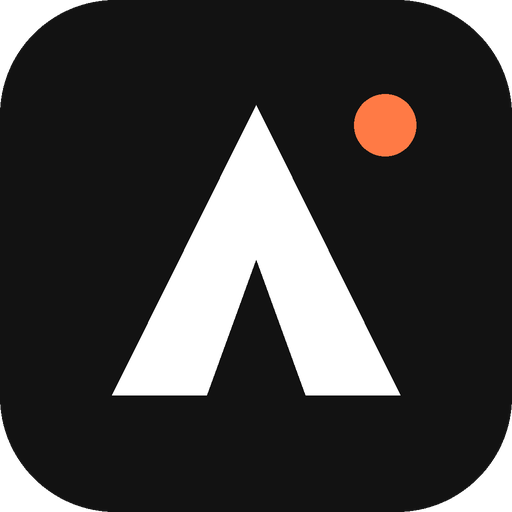
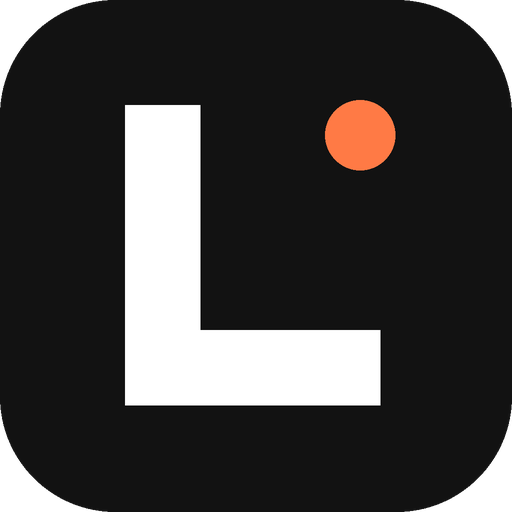
Lumina v2.0.0
- 改名為 Lumina（取自 illuminate：照亮方向，啟迪智慧），換上新圖示；桌面捷徑會自動換成新名稱
- 專案新增「對話模式」與「工作模式」：工作模式綁定資料夾後，AI 可以修改檔案、執行指令（每次跳出授權卡），每輪都有檢查點可以復原
- 更新改成只下載有變動的檔案，更新更快

Changed region(s): [[0.2188, 0.1875, 0.7812, 0.8125], [0.625, 0.1875, 0.8125, 0.3438]]

diff --git a/static/index.html b/static/index.html
@@ -3,7 +3,7 @@
 <head>
 <meta charset="utf-8">
 <meta name="viewport" content="width=device-width, initial-scale=1">
-<title>Antigravity 介面</title>
+<title>Lumina</title>
 <link rel="icon" type="image/png" href="/icon.png">
 <link rel="stylesheet" href="https://cdn.jsdelivr.net/npm/katex@0.16.11/dist/katex.min.css">
 <script src="https://cdn.jsdelivr.net/npm/katex@0.16.11/dist/katex.min.js"></script>
@@ -233,6 +233,8 @@ dialog.big[open]{display:flex;flex-direction:column;width:min(920px,94vw);height
 .msg.user .mtime{text-align:right}
 .convtime{text-align:center;font-size:12px;color:var(--muted);margin:6px 0 14px}
 body.notimes .mtime,body.notimes .convtime{display:none}
+.pmode label{display:block;font-size:13.5px;margin:4px 0}
+.pmode input[type=text]{width:100%;margin-top:4px}
 .cpbox{font-size:12.5px;color:var(--muted);margin:6px 0}
 .cpbox summary{cursor:pointer;display:flex;align-items:center;gap:8px}
 .cpbox .cprestore{font-size:12px;padding:2px 8px}
@@ -341,7 +343,7 @@ body.resizing{cursor:col-resize;user-select:none}
 <body>
 <div id="bgLayer" aria-hidden="true"></div>
 <aside id="side">
-  <div id="brand"><img src="/icon.png" alt=""><b>Antigravity UI</b><button class="vbadge" id="verBadge" title="檢查更新"></button><button id="collapseSide" title="收起側欄">«</button></div>
+  <div id="brand"><img src="/icon.png" alt=""><b>Lumina</b><button class="vbadge" id="verBadge" title="檢查更新"></button><button id="collapseSide" title="收起側欄">«</button></div>
   <div class="top"><button id="newBtn">＋ 新對話</button></div>
   <div class="sect"><span>專案</span><button id="newProj" title="新增專案">＋</button></div>
   <div id="projs"></div>
@@ -391,6 +393,13 @@ body.resizing{cursor:col-resize;user-select:none}
   <input type="text" id="pname">
   <label class="f">專案指示（這個專案的新對話會自動附上，例如「這些是我們實驗室 transmon 相關論文」）</label>
   <textarea id="pinstr"></textarea>
+  <label class="f">模式</label>
+  <div class="pmode">
+    <label><input type="radio" name="pmode" value="chat"> 💬 對話模式：讀檔、讀 PDF、產生 PDF 與檔案（只寫到 output）；不能執行指令</label>
+    <label><input type="radio" name="pmode" value="work"> 🛠 工作模式：AI 可以修改下面這個資料夾、執行指令（每次跳出授權卡），每輪都有檢查點可以復原</label>
+    <input type="text" id="pworkdir" placeholder="工作資料夾的完整路徑，可以在檔案總管的網址列複製">
+    <p class="note">建議寫程式、整理檔案時才用工作模式；大改動建議換成 Claude Opus（Gemini 寫程式較弱）。</p>
+  </div>
   <label class="f">🧠 專案記憶（這個專案每個新對話開頭都會帶上）</label>
   <textarea id="pmem" hidden></textarea>
   <div id="pmemPreview" class="mempv" title="點一下展開查看／編輯"></div>
@@ -472,10 +481,10 @@ body.resizing{cursor:col-resize;user-select:none}
       <div class="srow"><b>顯示訊息時間與對話建立時間</b><span class="sp"></span><label class="tg"><input type="checkbox" data-key="show_times"><i></i></label></div>
       <div class="srow"><b>點公式複製 LaTeX 原始碼</b><span class="sp"></span><label class="tg"><input type="checkbox" data-key="latex_copy"><i></i></label></div>
       <p class="note">點一下回答裡的公式，就會複製它的 LaTeX（例如 <code>$\langle x|\psi\rangle$</code>），可以直接貼到 Overleaf 或 Word。</p>
-      <div class="srow"><b>允許模型執行指令（每次詢問）</b><span class="sp"></span><label class="tg"><input type="checkbox" data-key="allow_commands" id="allowCmd"><i></i></label></div>
-      <p class="note">開啟後，模型想執行指令（例如用 python 讀 PDF、計算數值）時會跳出授權卡，你看過指令再決定：允許一次、這段對話都允許、永遠允許（只限 dir、git status 這類唯讀指令）或拒絕。
-        刪除資料夾、改系統設定、碰密碼與金鑰、修改 agy 或這個介面的設定等操作會直接擋下。
-        <b>注意：允許 python、powershell 等於讓模型在你的電腦上做任何事</b>，Windows 沒有沙盒可以隔離，請看過內容再允許。關閉時模型不能執行任何指令。</p>
+      <div class="srow"><b>執行指令與工作模式</b></div>
+      <p class="note">一般對話和專案預設是「💬 對話模式」：AI 只能讀檔、用內建工具讀 PDF、把檔案寫到 output，不能執行指令。
+        要讓 AI 改程式、執行指令，請在專案設定切換成「🛠 工作模式」並綁定資料夾：執行指令前會跳出授權卡，每輪都有檢查點可以復原。
+        刪除資料夾、改系統設定、碰密碼與金鑰等操作一律擋下。<b>注意：允許 python、powershell 等於讓 AI 在你的電腦上做任何事</b>，請看過內容再允許。</p>
       <div id="permBox"></div>
       <div class="srow"><b>產生 PDF 後讓模型檢查成品</b><span class="sp"></span><label class="tg"><input type="checkbox" data-key="pdf_verify"><i></i></label></div>
       <p class="note">PDF 編譯好後，把每一頁轉成圖片讓模型「看成品」：檢查頁數是否符合要求、版面有沒有跑掉、公式（例如括號位置）與內容有沒有錯，有問題就自動修正再重新產生。模型只看原始碼時常看不出這些問題。會多花一點時間與額度。</p>
@@ -510,7 +519,7 @@ body.resizing{cursor:col-resize;user-select:none}
       <div class="srow"><b>開啟時檢查新版本</b><span class="sp"></span><label class="tg"><input type="checkbox" data-key="update_check"><i></i></label></div>
       <div class="srow"><button id="sCheckUpd">立即檢查</button><span class="meta" id="sUpdText"></span></div>
       <div class="srow"><button id="sShortcut">建立桌面捷徑</button><span class="meta" id="sShortcutText"></span></div>
-      <div class="srow"><b id="sVersion">Antigravity UI</b><span class="sp"></span>
+      <div class="srow"><b id="sVersion">Lumina</b><span class="sp"></span>
         <button id="sReadme">說明文件</button><button id="sGithub">GitHub</button></div>
     </section>
   </div>
@@ -521,7 +530,7 @@ body.resizing{cursor:col-resize;user-select:none}
 </dialog>
 <dialog id="scdlg">
   <h3 style="margin-top:0">建立桌面捷徑</h3>
-  <p>要在桌面建立「Antigravity UI」的捷徑嗎？之後雙擊捷徑就能開啟介面，更新後也會沿用同一個捷徑。</p>
+  <p>要在桌面建立「Lumina」的捷徑嗎？之後雙擊捷徑就能開啟介面，更新後也會沿用同一個捷徑。</p>
   <div class="r"><button id="scNo">不用</button><button id="scYes">建立</button></div>
 </dialog>
 <dialog id="updlg">
@@ -1108,7 +1117,7 @@ async function loadProjects(){
 function paintProjectChip(){
   const p = curProject(), chip = $("#projChip");
   chip.style.display = p ? "inline-block" : "none";
-  if (p) chip.textContent = `📁 ${p.name} · ${p.file_count} 份檔案`;
+  if (p) chip.textContent = `${p.mode === "work" ? "🛠" : "📁"} ${p.name} · ${p.file_count} 份檔案${p.mode === "work" ? " · 工作模式" : ""}`;
   $("#histLabel").textContent = p ? `「${p.name}」的對話` : "一般對話";
 }
 function switchProject(id, keepConv){
@@ -1129,6 +1138,9 @@ async function openProjectDialog(){
   const p = curProject(); if (!p) return;
   const full = await (await fetch("/api/projects/" + p.id)).json();
   $("#pname").value = full.name; $("#pinstr").value = full.instructions || "";
+  const mode = full.mode === "work" ? "work" : "chat";
+  document.querySelector(`input[name=pmode][value=${mode}]`).checked = true;
+  $("#pworkdir").value = full.work_dir || ""; $("#pworkdir").disabled = mode !== "work";
   paintMemory(full);
   paintProjectFiles(full.files);
   if (!$("#pdlg").open) $("#pdlg").showModal();
@@ -1168,9 +1180,14 @@ const pf = $("#pfiles");
 pf.addEventListener("dragleave", () => pf.classList.remove("drag"));
 pf.addEventListener("drop", e => { e.preventDefault(); e.stopPropagation(); pf.classList.remove("drag"); if (e.dataTransfer?.files?.length) uploadProjectFiles(e.dataTransfer.files); });
 $("#pClose").onclick = () => $("#pdlg").close();
+document.querySelectorAll("input[name=pmode]").forEach(r => r.onchange = () => {
+  $("#pworkdir").disabled = r.value !== "work" || !r.checked; if (r.value === "work" && r.checked) $("#pworkdir").focus();
+});
 $("#pSave").onclick = async () => {
+  const mode = document.querySelector("input[name=pmode]:checked")?.value || "chat";
   const r = await post("/api/project/update", {id:project, name:$("#pname").value, instructions:$("#pinstr").value,
-                                               memory:$("#pmem").value, memory_auto:$("#pmemAuto").checked});
+                                               memory:$("#pmem").value, memory_auto:$("#pmemAuto").checked,
+                                               mode, work_dir:$("#pworkdir").value.trim().replace(/^"|"$/g, "")});
   if (r.ok === false){ alert(r.message); return; }
   $("#pdlg").close(); loadProjects();
 };
@@ -1238,7 +1255,7 @@ async function checkVersionOnly(){       // 關閉「開啟時檢查新版本」
   try {
     const v = await (await fetch("/api/version")).json();
     $("#verText").textContent = $("#verBadge").textContent = "v" + v.version;
-    document.title = `Antigravity 介面 v${v.version}`;
+    document.title = `Lumina v${v.version}`;
   } catch {}
 }
 async function checkUpdate(force){
@@ -1246,7 +1263,7 @@ async function checkUpdate(force){
     const v = await (await fetch("/api/version")).json();
     $("#verText").textContent = "v" + v.version;
     $("#verBadge").textContent = "v" + v.version;
-    document.title = `Antigravity 介面 v${v.version}`;
+    document.title = `Lumina v${v.version}`;
     updInfo = await (await fetch("/api/update/check" + (force ? "?force=1" : ""))).json();
   } catch { return; }
   const b = $("#updBtn");
@@ -1257,7 +1274,7 @@ async function checkUpdate(force){
   $("#verBadge").textContent = updInfo.available ? `v${updInfo.current} → v${updInfo.latest}` : `v${updInfo.current}`;
   $("#verBadge").title = updInfo.available ? "有新版本，點這裡更新" : "檢查更新";
   $("#sUpdText").textContent = updInfo.available ? `有新版本 v${updInfo.latest}` : updInfo.error ? "連不上 GitHub，請確認網路後再試" : `目前已經是最新版（v${updInfo.current}）`;
-  $("#sVersion").textContent = `Antigravity UI v${updInfo.current}`;
+  $("#sVersion").textContent = `Lumina v${updInfo.current}`;
   if (force){
     if (updInfo.available) openUpdateDialog();
     else toast(updInfo.error ? "連不上 GitHub，請確認網路後再試" : `已經是最新版（v${updInfo.current}）`);
@@ -1359,6 +1376,7 @@ function emptyState(){
 }
 /* ---------- 一般對話首頁：問候、最近的對話、小技巧（打開 AI 都有目的，不放快速開始卡片） ---------- */
 const HOME_TIPS = [
+  "你知道嗎？Lumina 來自於 illuminate，意旨為「照亮方向，啟迪智慧」",
   "直接 <kbd>Ctrl</kbd>+<kbd>V</kbd> 就能貼上截圖",
   "把多份 PDF 放進「專案」，模型會自己挑需要的讀",
   "滑鼠移到自己的訊息上可以「✎ 編輯」重新送出",
@@ -1860,8 +1878,8 @@ $("#importFile").onchange = async e => {
   loadProjects(); loadHistory();
 };
 $("#sCheckUpd").onclick = () => checkUpdate(true);
-$("#sReadme").onclick = () => window.open("https://github.com/NaizOuO/Antigravity-UI#readme", "_blank");
-$("#sGithub").onclick = () => window.open("https://github.com/NaizOuO/Antigravity-UI", "_blank");
+$("#sReadme").onclick = () => window.open("https://github.com/NaizOuO/Lumina#readme", "_blank");
+$("#sGithub").onclick = () => window.open("https://github.com/NaizOuO/Lumina", "_blank");
 
 /* 回答完成提醒：視窗不在前面時，提示音＋分頁標題 */
 function beep(){

diff --git a/updater.py b/updater.py
@@ -22,17 +22,17 @@ import version
 
 APP_DIR = Path(__file__).resolve().parent
 
-REPO = "NaizOuO/Antigravity-UI"
+REPO = "NaizOuO/Lumina"          # v2.0.0 起改名；舊名稱的網址 GitHub 會自動轉過來
 LATEST_URL = f"https://api.github.com/repos/{REPO}/releases/latest"
 RELEASES_PAGE = f"https://github.com/{REPO}/releases/latest"
-ASSET_PREFIX = "Antigravity-UI-"
+ASSET_PREFIXES = ("Lumina-", "Antigravity-UI-")    # 過渡期兩種檔名都認得
 MANIFEST = "manifest.json"          # 這一版的程式檔清單（release.py 產生）
 PROTECTED = ("data", "output", "setting", "components", "update", ".git")   # 這些資料夾裡的東西更新時絕對不動
 CHECK_TTL = 5 * 60                  # 檢查結果快取 5 分鐘（重新整理頁面就會再檢查；GitHub 未登入每小時限 60 次）
 
 
 def _get_json(url, timeout=10):
-    req = urllib.request.Request(url, headers={"User-Agent": "Antigravity-UI", "Accept": "application/vnd.github+json"})
+    req = urllib.request.Request(url, headers={"User-Agent": "Lumina", "Accept": "application/vnd.github+json"})
     with urllib.request.urlopen(req, timeout=timeout) as r:
         return json.loads(r.read().decode("utf-8"))
 
@@ -79,7 +79,7 @@ def check(force=False):
         data = _get_json(LATEST_URL)
         tag = str(data.get("tag_name", ""))
         asset = next((a for a in data.get("assets", [])
-                      if str(a.get("name", "")).startswith(ASSET_PREFIX) and a["name"].endswith(".zip")), None)
+                      if str(a.get("name", "")).startswith(ASSET_PREFIXES) and a["name"].endswith(".zip")), None)
         digest = str((asset or {}).get("digest") or "")
         result.update(
             latest=tag.lstrip("vV"),
@@ -96,8 +96,50 @@ def check(force=False):
     return result
 
 
+RAW_BASE = "https://raw.githubusercontent.com/{repo}/v{ver}/{path}"
+
+
+def _fetch(url, timeout=30):
+    req = urllib.request.Request(url, headers={"User-Agent": "Lumina"})
+    with urllib.request.urlopen(req, timeout=timeout) as r:
+        return r.read()
+
+
+def _download_delta(info, target):
+    """只下載有變動的檔案：比對新版 manifest.json 的檢查碼，變動的檔案從 raw.githubusercontent.com 逐一下載
+    （Release 附件的伺服器在台灣常常很慢），沒變的直接用本機的檔案，組成一個和完整版一樣的 zip 交給 apply()。
+    任何一個檔案下載失敗或檢查碼不符就丟出例外，由 download() 改下載完整 zip。"""
+    from urllib.parse import quote
+    ver = str(info.get("latest") or "")
+    raw = lambda path: RAW_BASE.format(repo=REPO, ver=ver, path=quote(path))
+    new = json.loads(_fetch(raw(MANIFEST)))
+    if str(new.get("version")) != ver:
+        raise RuntimeError("清單版本不符")
+    changed = 0
+    with zipfile.ZipFile(target, "w", zipfile.ZIP_DEFLATED) as zf:
+        for rel, digest in new["files"].items():
+            if not _safe(rel):
+                raise RuntimeError(f"不安全的路徑：{rel}")
+            local = APP_DIR / rel
+            if local.is_file() and file_sha256(local) == digest:
+                data = local.read_bytes()
+            else:
+                data = _fetch(raw(rel))
+                if hashlib.sha256(data).hexdigest() != digest:
+                    raise RuntimeError(f"{rel} 的檢查碼不符")
+                changed += 1
+            zf.writestr(rel, data)
+        zf.writestr(MANIFEST, json.dumps(new, ensure_ascii=False, indent=1))
+    return changed
+
+
 def download(info, target):
-    req = urllib.request.Request(info["url"], headers={"User-Agent": "Antigravity-UI"})
+    try:
+        _download_delta(info, target)          # 先試只下載變動的檔案（通常只有幾十 KB）
+        return target
+    except Exception:
+        Path(target).unlink(missing_ok=True)   # 改下載完整版
+    req = urllib.request.Request(info["url"], headers={"User-Agent": "Lumina"})
     h = hashlib.sha256()
     with urllib.request.urlopen(req, timeout=60) as r, open(target, "wb") as out:
         for chunk in iter(lambda: r.read(1 << 16), b""):

diff --git a/release.py b/release.py
@@ -11,6 +11,7 @@ data/（個人資料）不會被打包，也不會進 git（見 .gitignore）。
 import hashlib
 import json
 import re
+import shutil
 import subprocess
 import sys
 import zipfile
@@ -18,6 +19,7 @@ from pathlib import Path
 
 ROOT = Path(__file__).resolve().parent
 DIST = ROOT / "dist"
+LEGACY_ASSET = True                 # 改名 Lumina 的過渡期：同時附上舊檔名的安裝檔
 PROGRAM_FILES = ["server.py", "version.py", "updater.py", "components.py", "command_guard.py", "checkpoints.py", "tools/lumina.py", "static/index.html",
                  "skills/pdf-document/SKILL.md", "skills/pdf-document/references/packages.md",
                  "skills/pdf-document/references/notes.typ", "skills/pdf-document/references/report.typ",
@@ -44,12 +46,17 @@ def pack(ver):
     manifest = {"version": ver, "files": {f: sha256(ROOT / f) for f in PROGRAM_FILES}}
     (ROOT / "manifest.json").write_text(json.dumps(manifest, ensure_ascii=False, indent=1), encoding="utf-8")
     DIST.mkdir(exist_ok=True)
-    out = DIST / f"Antigravity-UI-v{ver}.zip"
+    out = DIST / f"Lumina-v{ver}.zip"
     with zipfile.ZipFile(out, "w", zipfile.ZIP_DEFLATED) as zf:
         for f in PROGRAM_FILES + ["manifest.json"]:
-            zf.write(ROOT / f, f"Antigravity-UI/{f}")
-    print(f"已產生 {out}")
-    return out
+            zf.write(ROOT / f, f"Lumina/{f}")
+    # 過渡期：再附一份舊檔名的（內容相同）。v1.7.0 以前的更新程式只認得 Antigravity-UI- 開頭，
+    # 很久沒開介面的朋友也能直接更新；確定大家都更新過後，把 LEGACY_ASSET 改成 False 就不再附
+    legacy = DIST / f"Antigravity-UI-v{ver}.zip"
+    if LEGACY_ASSET:
+        shutil.copyfile(out, legacy)
+    print(f"已產生 {out}" + (f" 與 {legacy.name}" if LEGACY_ASSET else ""))
+    return [out] + ([legacy] if LEGACY_ASSET else [])
 
 
 def run(*cmd):
@@ -66,13 +73,13 @@ def main(argv):
         sys.exit(__doc__)
     ver, notes = argv[0], argv[1:] or ["更新"]
     set_version(ver)
-    zip_path = pack(ver)
+    zips = pack(ver)
     body = "\n".join(f"- {n}" for n in notes)
     run("git", "add", "-A")
-    run("git", "commit", "-m", f"Antigravity UI v{ver}\n\n{body}")
+    run("git", "commit", "-m", f"Lumina v{ver}\n\n{body}")
     run("git", "tag", f"v{ver}")
     run("git", "push", "origin", "HEAD", f"v{ver}")
-    run("gh", "release", "create", f"v{ver}", str(zip_path), "--title", f"v{ver}", "--notes", body)
+    run("gh", "release", "create", f"v{ver}", *map(str, zips), "--title", f"v{ver}", "--notes", body)
 
 
 if __name__ == "__main__":

diff --git a/tools/make_icon.py b/tools/make_icon.py
@@ -1,6 +1,6 @@
 """產生介面圖標（開發者用）：static/icon.png（網頁用）與 static/icon.ico（桌面捷徑用）。
 
-設計「負空間 A」：近黑色圓角方塊；白色實心三角形，底部中間挖空形成 A；右上一顆橘色小點。
+Lumina 的圖示「L 字光束」：近黑色圓角方塊、白色粗 L、右上一顆橘色小點像光源（v2.0.0 起；之前是負空間 A）。
 用法：python tools/make_icon.py（需要 Pillow）
 """
 
@@ -18,9 +18,9 @@ def draw():
     im = Image.new("RGBA", (S, S), (0, 0, 0, 0))
     d = ImageDraw.Draw(im)
     d.rounded_rectangle([0, 0, S - 1, S - 1], radius=230, fill=BG)
-    d.polygon([(512, 210), (800, 790), (224, 790)], fill="white")        # A 的外框
-    d.polygon([(512, 520), (610, 790), (414, 790)], fill=BG)             # 中間挖空
-    d.ellipse([708, 188, 832, 312], fill=ACCENT)                         # 橘色小點
+    d.rectangle([250, 210, 400, 810], fill="white")                     # L 的直筆
+    d.rectangle([250, 660, 760, 810], fill="white")                     # L 的橫筆
+    d.ellipse([650, 200, 790, 340], fill=ACCENT)                         # 橘色光點
     return im
 
 

diff --git a/version.py b/version.py
@@ -1,6 +1,6 @@
 """介面的版本；每次發布前更新（release.py 會自動改）。"""
 
-VERSION = "1.7.0"
+VERSION = "2.0.0"
 
 
 def parse(text):

diff --git a/README.md b/README.md
@@ -1,10 +1,10 @@
-# Antigravity CLI 網頁介面
+# Lumina（for Antigravity）
 
 在瀏覽器裡使用 Google Antigravity CLI（`agy`）：可以切換模型、附加圖片／PDF／檔案、建立專案（多份 PDF + 共享記憶）、看用量、開關聯網搜尋。
 每則訊息都是呼叫官方 `agy -p`，登入的是你自己的帳號。
 
 ## 下載
-到 [Releases](https://github.com/NaizOuO/Antigravity-UI/releases/latest) 下載最新的 `Antigravity-UI-v*.zip`，解壓縮到任何地方。
+到 [Releases](https://github.com/NaizOuO/Lumina/releases/latest) 下載最新的 `Antigravity-UI-v*.zip`，解壓縮到任何地方。
 
 ## 需要先準備
 1. 安裝 [Python 3](https://www.python.org/downloads/)（安裝時勾選 "Add python.exe to PATH"）。
@@ -13,7 +13,7 @@
 ## 使用
 - 雙擊 `啟動.vbs`：在背景啟動，並自動打開 http://127.0.0.1:8765
 - 雙擊 `關閉.bat`：關掉背景伺服器
-- **桌面捷徑**：第一次開啟時會詢問要不要在桌面建立「Antigravity UI」捷徑（之後也能從左下角「建立桌面捷徑」建立）。
+- **桌面捷徑**：第一次開啟時會詢問要不要在桌面建立「Lumina」捷徑（之後也能從左下角「建立桌面捷徑」建立）。
   資料夾搬家後，按「重新建立捷徑」即可
 - 左上角顯示目前版本；有新版本時會變成橘色，點一下就能更新
 - **輸出檔案**：請 AI「輸出成 md 檔」之類的，檔案會存在主目錄的 `output` 資料夾；右上角「📂 輸出」可以直接打開
